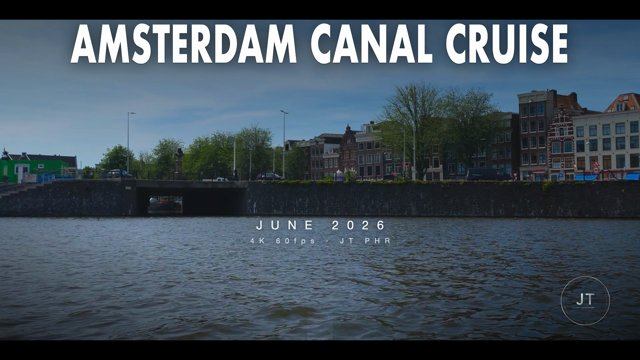
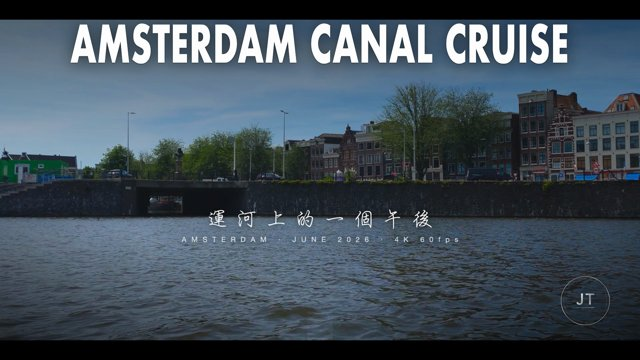
photonb: update notebook (33 notes)

Changed region(s): [[0.2812, 0.5806, 0.7188, 0.6722]]

diff --git a/public/photonb/narrative-tag-tool.html b/public/photonb/narrative-tag-tool.html
@@ -74,9 +74,8 @@
       <img src="narrative-assets/tpl_opening.jpg" alt="開場標題卡">
       <div class="body"><span class="tag">現行</span>
         <h3>③ 開場標題卡</h3>
-        <p>影片最前面 5 秒的字幕卡：<b>地名（滿版粗黑體）＋ 日期 ＋ 規格</b>，淡入淡出後開始走。
-        對標 Abao Vision 開頭那張。字體／配色跟長景同一套，一致性直接有。</p>
-        <div class="use">適用 <b>所有長片開頭</b> · 之後可加「對話日記」訊息泡泡（待 James 決定語氣）</div>
+        <p>影片最前面 5 秒的字幕卡，三層：<b>地名（滿版粗黑體）</b> ＋ <b>中文草寫一句（日記感）</b> ＋ 規格小字。<br>對標 Abao Vision 開頭那張。字體／配色跟長景同一套，開場接正片不會斷裂。</p>
+        <div class="use">適用 <b>所有長片開頭</b> · 中文草寫＝行楷-繁（James 2026-08-05：「中文草寫比較有日記感」）· 之後可加「對話日記」訊息泡泡</div>
       </div>
     </div>
     <div class="card">
